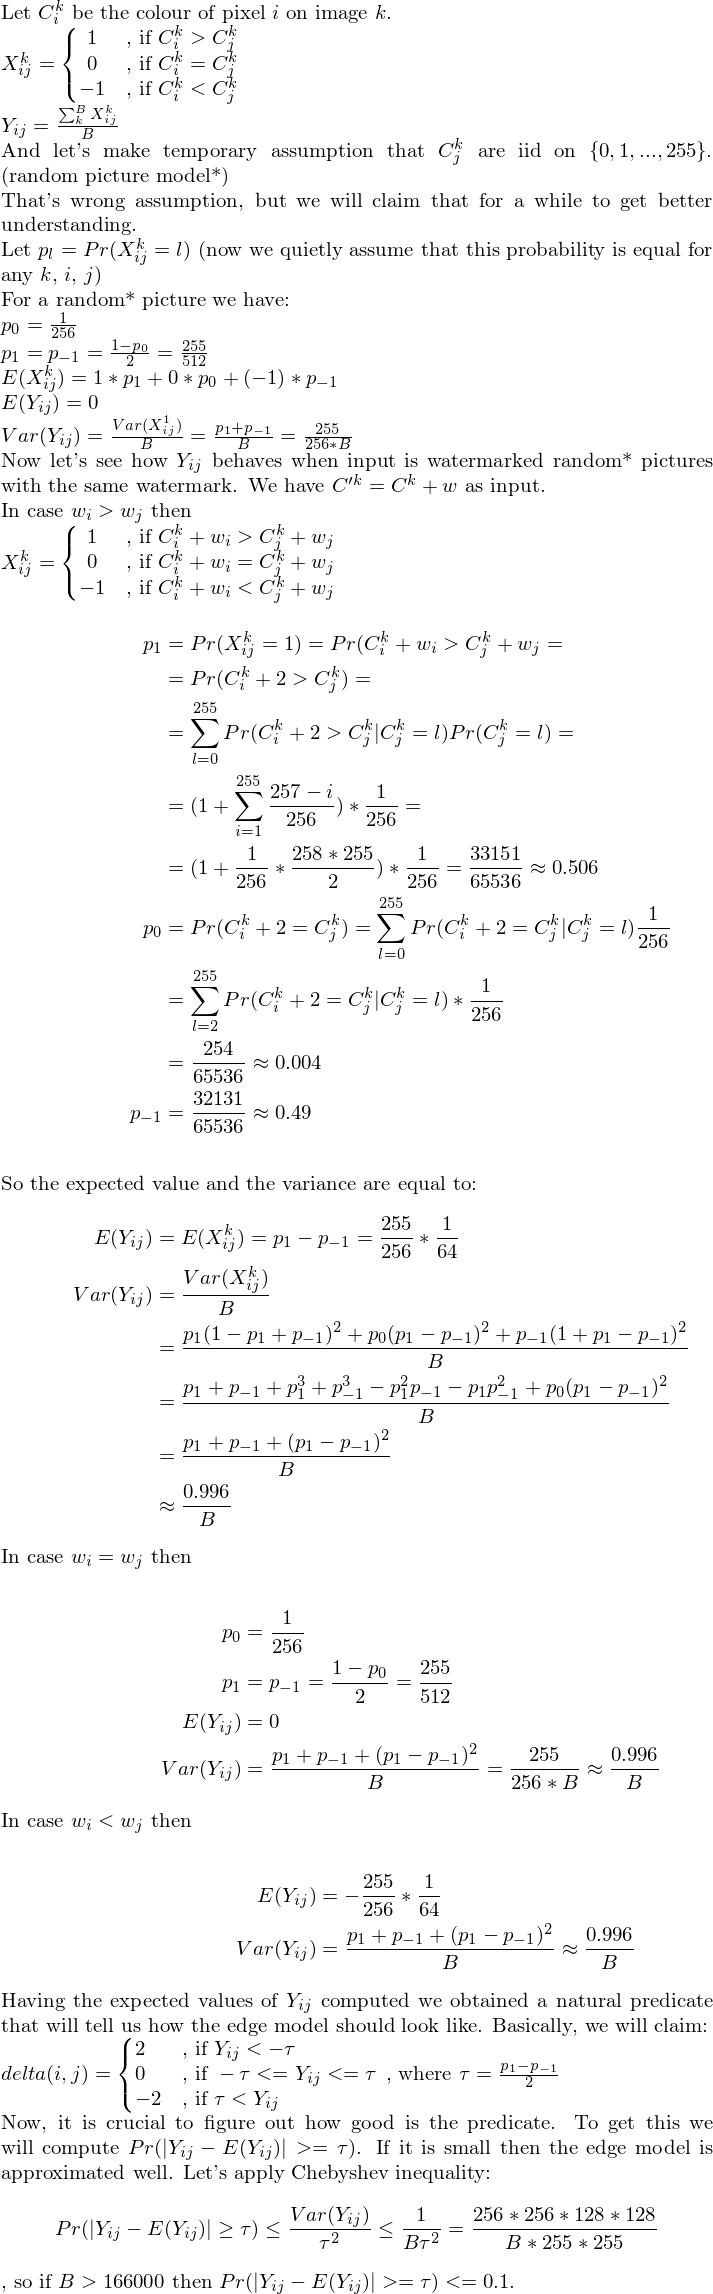
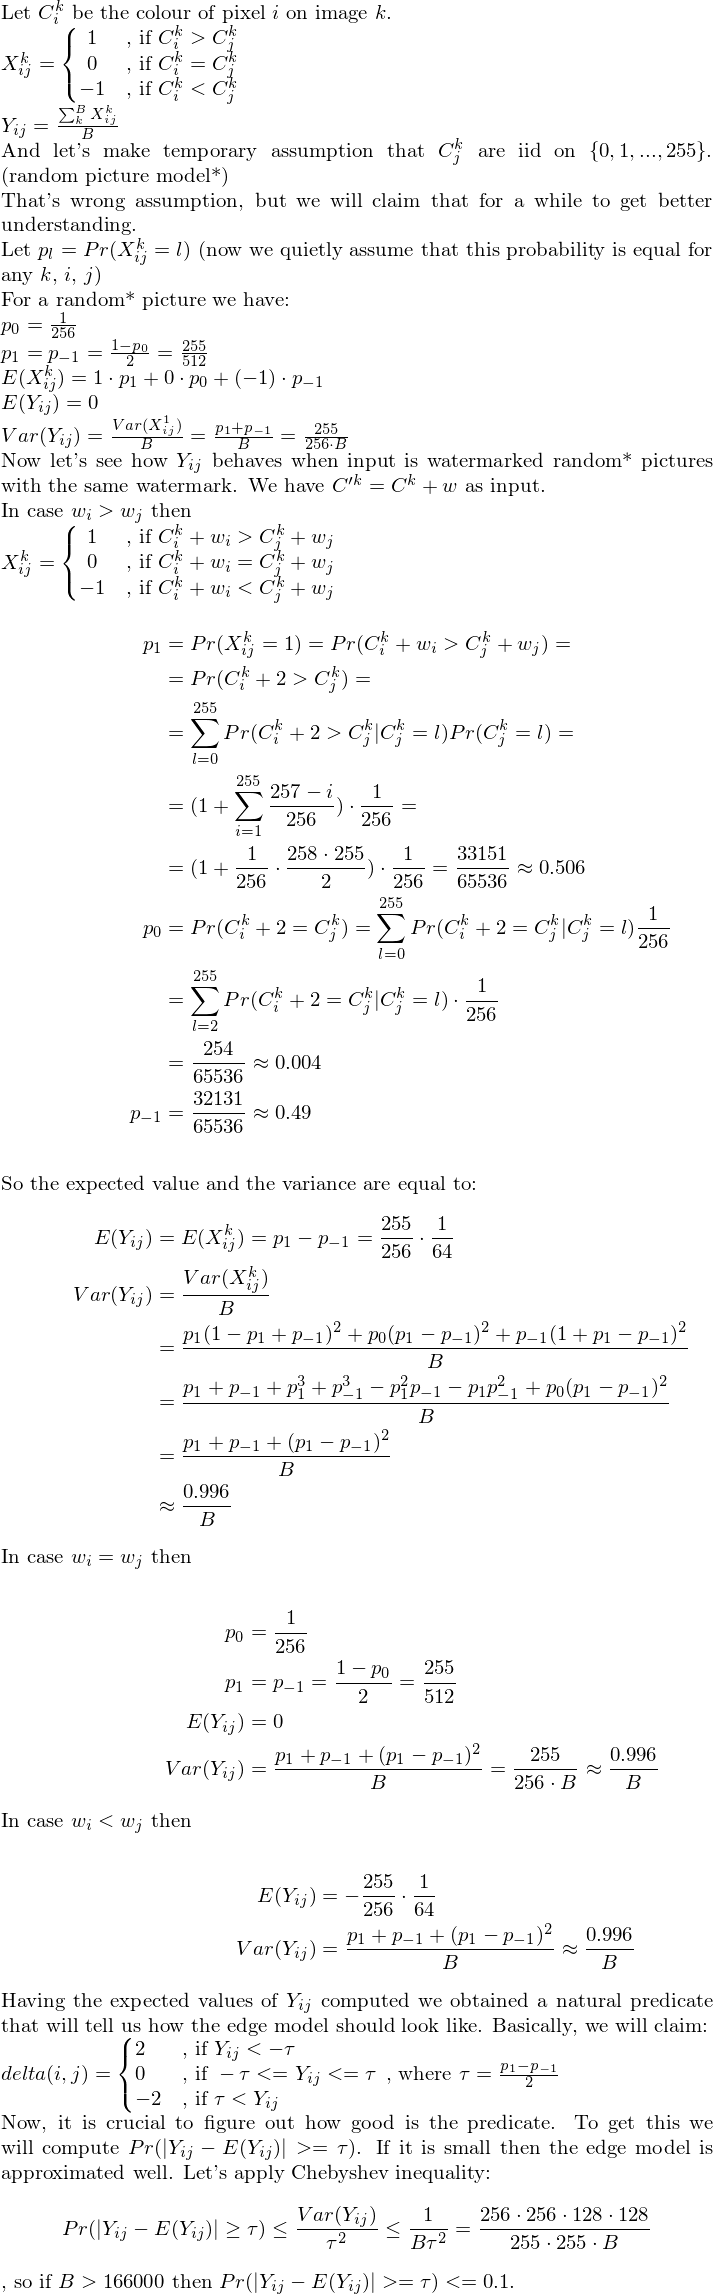
Formatting

diff --git a/latex/analysis.tex b/latex/analysis.tex
@@ -18,9 +18,9 @@ Let $p_l = Pr(X^k_{ij} = l)$
 For a random* picture we have:\\
 $p_0 = \frac{1}{256}$\\
 $p_1 = p_{-1} = \frac{1-p_0}{2} = \frac{255}{512}$\\
-$E(X^k_{ij}) = 1*p_1 + 0*p_0 + (-1)*p_{-1}$\\
+$E(X^k_{ij}) = 1\cdot p_1 + 0\cdot p_0 + (-1)\cdot p_{-1}$\\
 $E(Y_{ij}) = 0$\\
-$Var(Y_{ij}) = \frac{Var(X^1_{ij})}{B} = \frac{p_1 + p_{-1}}{B} = \frac{255}{256*B}$\\
+$Var(Y_{ij}) = \frac{Var(X^1_{ij})}{B} = \frac{p_1 + p_{-1}}{B} = \frac{255}{256\cdot B}$\\
 Now let's see how $Y_{ij}$ behaves when input is watermarked random* pictures with the same watermark. We have $C'^k = C^k + w$ as input.\\
 In case $w_i > w_j$ then\\
 $X^k_{ij} =
@@ -31,20 +31,20 @@ $X^k_{ij} =
 -1 & \text{, if } C^k_i + w_i < C^k_j + w_j
 \end{matrix}\right.$\\
 \begin{align*}
-p_1 &= Pr(X^k_{ij} = 1) = Pr(C^k_i + w_i > C^k_j + w_j =\\
+p_1 &= Pr(X^k_{ij} = 1) = Pr(C^k_i + w_i > C^k_j + w_j) =\\
     &= Pr(C^k_i + 2 > C^k_j) =\\
     &= \sum_{l=0}^{255} Pr(C^k_i + 2 > C^k_j | C^k_j = l)Pr(C^k_j = l) =\\
-    &= (1 + \sum_{i=1}^{255} \frac{257-i}{256})*\frac{1}{256} =\\
-    &= (1 + \frac{1}{256}*\frac{258*255}{2})*\frac{1}{256}=\frac{33151}{65536}
+    &= (1 + \sum_{i=1}^{255} \frac{257-i}{256})\cdot \frac{1}{256} =\\
+    &= (1 + \frac{1}{256}\cdot \frac{258\cdot 255}{2})\cdot \frac{1}{256}=\frac{33151}{65536}
         \approx 0.506\\
 p_0 &= Pr(C^k_i + 2 = C^k_j) = \sum_{l=0}^{255} Pr(C^k_i + 2 = C^k_j | C^k_j = l)\frac{1}{256}\\
-    &= \sum_{l=2}^{255} Pr(C^k_i + 2 = C^k_j | C^k_j = l)*\frac{1}{256}\\
+    &= \sum_{l=2}^{255} Pr(C^k_i + 2 = C^k_j | C^k_j = l)\cdot \frac{1}{256}\\
     &= \frac{254}{65536} \approx 0.004\\
 p_{-1} &= \frac{32131}{65536} \approx 0.49
 \end{align*}\\
 So the expected value and the variance are equal to:
 \begin{align*}
-E(Y_{ij}) &= E(X^k_{ij}) = p_1 - p_{-1}=\frac{255}{256}*\frac{1}{64}\\
+E(Y_{ij}) &= E(X^k_{ij}) = p_1 - p_{-1}=\frac{255}{256}\cdot \frac{1}{64}\\
 Var(Y_{ij}) &= \frac{Var(X^k_{ij})}{B}\\
             &= \frac{p_1(1-p_1+p_{-1})^2 + p_0(p_1-p_{-1})^2 + p_{-1}(1+p_1-p_{-1})^2}{B}\\
             &= \frac{p_1 + p_{-1} + p_1^3 + p_{-1}^3 - p_1^2p_{-1} - p_1p_{-1}^2 + p_0(p_1-p_{-1})^2}{B}\\
@@ -56,11 +56,11 @@ In case $w_i = w_j$ then\\
 p_0 &= \frac{1}{256}\\
 p_1 &= p_{-1} = \frac{1-p_0}{2} = \frac{255}{512}\\
 E(Y_{ij}) &= 0\\
-Var(Y_{ij}) &= \frac{p_1 + p_{-1} + (p_1-p_{-1})^2}{B} = \frac{255}{256*B} \approx \frac{0.996}{B}
+Var(Y_{ij}) &= \frac{p_1 + p_{-1} + (p_1-p_{-1})^2}{B} = \frac{255}{256\cdot B} \approx \frac{0.996}{B}
 \end{align*}
 In case $w_i < w_j$ then\\
 \begin{align*}
-E(Y_{ij}) &= -\frac{255}{256}*\frac{1}{64}\\
+E(Y_{ij}) &= -\frac{255}{256}\cdot \frac{1}{64}\\
 Var(Y_{ij}) &= \frac{p_1 + p_{-1} + (p_1-p_{-1})^2}{B} \approx \frac{0.996}{B}
 \end{align*}
 Having the expected values of $Y_{ij}$ computed we obtained a natural predicate
@@ -79,7 +79,7 @@ $$
 Pr(|Y_{ij} - E(Y_{ij})| \geq \tau)
   \leq \frac{Var(Y_{ij})}{\tau^2}
   \leq \frac{1}{B\tau^2}
-  = \frac{256*256*128*128}{B*255*255}
+  = \frac{256\cdot 256\cdot 128\cdot 128}{255\cdot 255\cdot B}
 $$
 , so if $B > 166000$ then $Pr(|Y_{ij} - E(Y_{ij})| >= \tau) <= 0.1$.
 \end{document}
